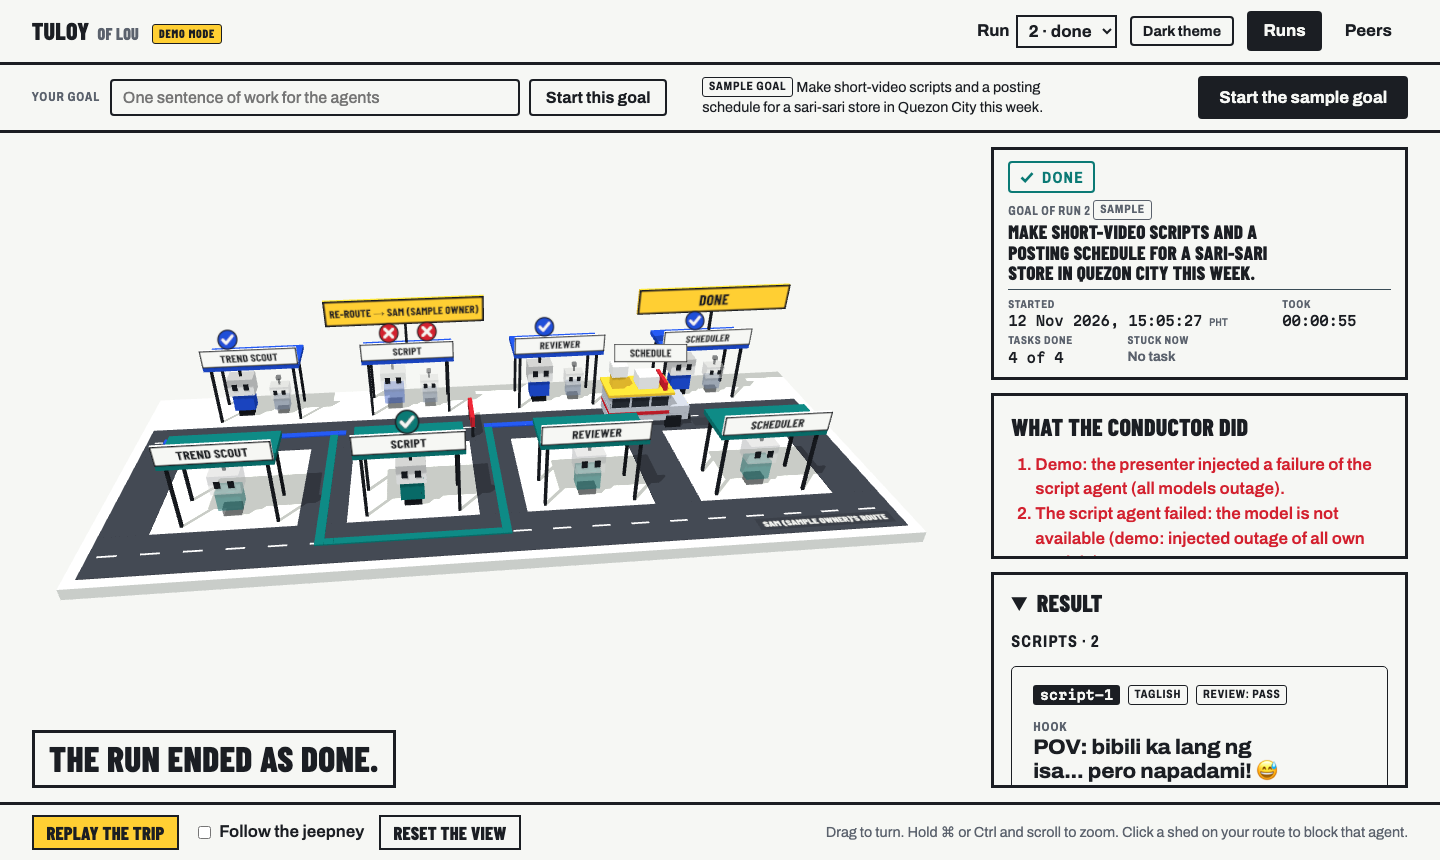
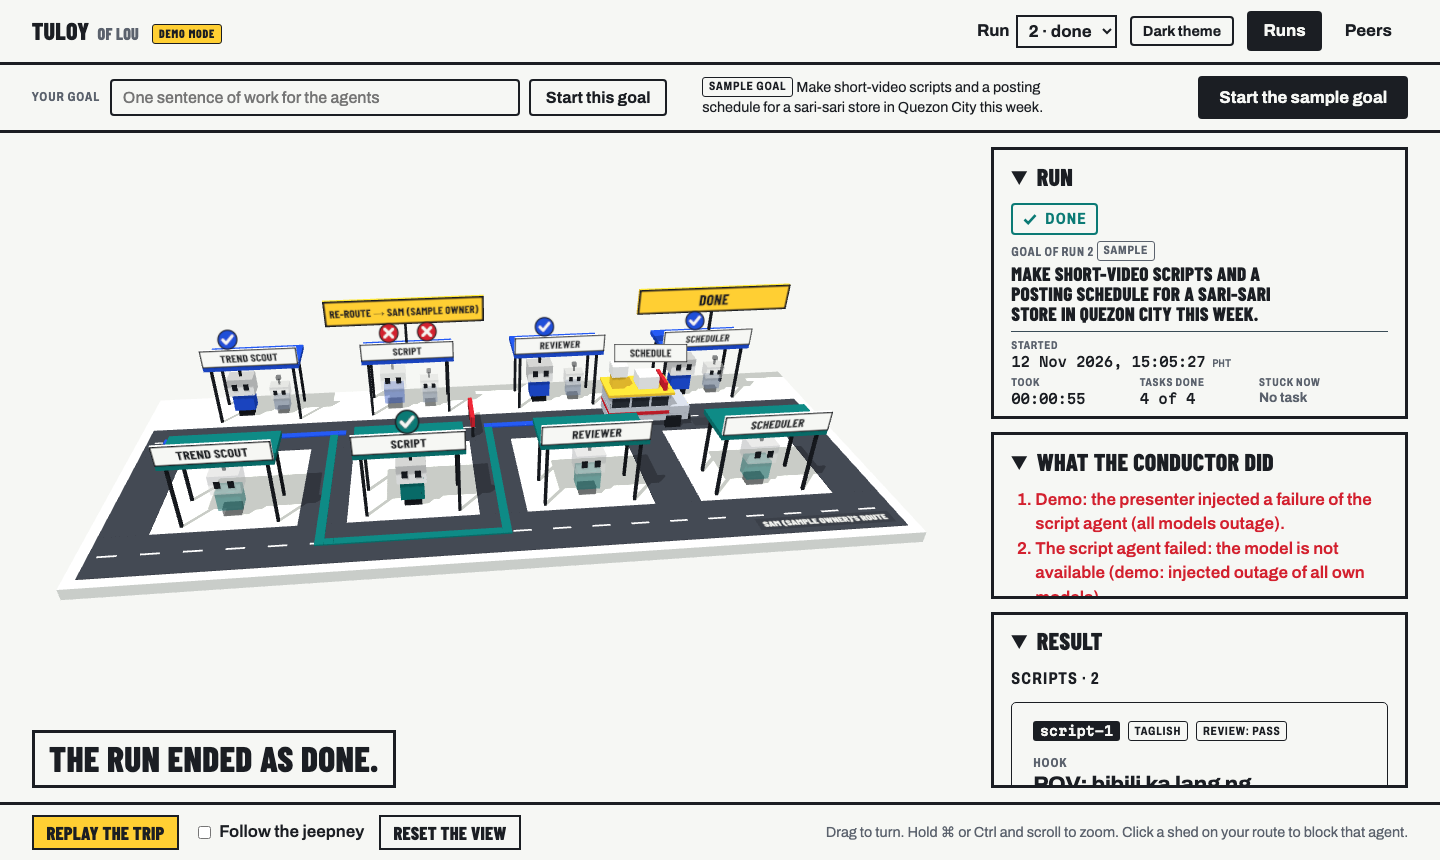
Each panel of the right column folds

Changed region(s): [[0.6875, 0.1814, 0.9688, 0.9372]]

diff --git a/src/page/style.css b/src/page/style.css
@@ -378,7 +378,7 @@ details > .data, details > .data-list { margin-top: 0.4rem; padding: 0.6rem 0.8r
   --st-panel: #f6f7f4; --st-ink: #1b1e23; --st-white: #f6f7f4; --st-route: #1f4fd8; --st-peer: #0b7a75; --st-backup: #8093b5;
   --st-block: #d3212f; --st-sign: #ffcf33; --st-on-sign: #1b1e23; --st-road: #3b4049; --st-roadline: #f6f7f4; --st-steel: #c3c9d2; --st-glass: #2a2f37; --st-ground: #e7eae4;
 }
-.mark, .slate h1, .street-say, .did h2, .result > h2, .details > summary, .result-fold > summary, .street-tools button, .shed-menu p {
+.mark, .slate h1, .street-say, .did h2, .result > h2, .details > summary, .fold > summary, .street-tools button, .shed-menu p {
   font-family: var(--sign-face);
   font-weight: 800;
   font-stretch: normal;
@@ -415,7 +415,6 @@ details > .data, details > .data-list { margin-top: 0.4rem; padding: 0.6rem 0.8r
 .shed-menu button:hover { background: var(--ink); color: var(--sheet); }
 body > .shed-menu, .shed-menu { position: absolute; }
 
-.did { background: var(--sheet); border: 3px solid var(--ink); padding: 0.9rem 1.1rem 1.1rem; }
 .did h2, .result > h2 { font-size: 1.5rem; color: var(--ink); margin-bottom: 0.5rem; }
 .did ol { list-style: decimal; padding-left: 1.5rem; line-height: 1.45; }
 .did li.recovery-trouble { color: var(--stop); font-weight: 600; }
@@ -465,7 +464,7 @@ body > .shed-menu, .shed-menu { position: absolute; }
 .caption .demo-note, .caption .demo-pending { margin: 0; padding: 0.4rem 0.7rem; background: var(--sheet); border: 2px solid var(--ink); border-left-width: 6px; }
 .caption #demo-clear { margin: 0; }
 .side { display: grid; gap: 0.8rem; align-content: start; }
-.side .slate { min-height: 0; padding: 0.7rem 0.9rem; }
+.side .slate { min-height: 0; padding: 0; border: 0; background: none; }
 .side .slate-top { flex-wrap: wrap-reverse; gap: 0.4rem 1rem; }
 .side .slate h1 { font-size: 1.2rem; }
 .side .slate-state .status { font-size: 1rem; }
@@ -476,9 +475,10 @@ body > .shed-menu, .shed-menu { position: absolute; }
 .side .slate-help { font-size: 1rem; padding-bottom: 0; }
 .side .slate .fields { gap: 0.2rem 1.4rem; }
 .side .slate .field dd { font-size: 0.85rem; }
-.result-fold { margin: 0; background: var(--sheet); border: 3px solid var(--ink); padding: 0.7rem 1.1rem; }
-.result-fold > summary { font-size: 1.5rem; color: var(--ink); width: auto; }
-.result-fold[open] > summary { margin-bottom: 0.6rem; }
+/* Each panel of the column folds: a click on its title closes it and gives the room to the street. */
+.fold { margin: 0; background: var(--sheet); border: 3px solid var(--ink); padding: 0.6rem 1.1rem; }
+.fold > summary { font-size: 1.5rem; color: var(--ink); width: auto; }
+.fold[open] > summary { margin-bottom: 0.5rem; }
 .result-fold .result > h2 { display: none; }
 .result-fold .result h3:first-of-type { margin-top: 0; }
 .result-fold .post { grid-template-columns: 1fr; }
@@ -500,10 +500,9 @@ body > .shed-menu, .shed-menu { position: absolute; }
   .caption { align-self: end; max-width: 38rem; }
   .side { display: flex; flex-direction: column; }
   .side > * { flex: 0 1 auto; overflow: auto; }
-  .side .slate { flex-shrink: 0; }
-  .side .did { min-height: 4.5rem; }
-  .side:has(.result-fold[open]) .did { max-height: 26%; }
-  .result-fold { flex-shrink: 0; }
+  .side > .fold { flex-shrink: 0; }
+  .side > .did[open] { flex-shrink: 1; min-height: 6.5rem; }
+  .side:has(.result-fold[open]) .did[open] { max-height: 26%; }
   .result-fold[open] { flex: 1 1 0; min-height: 6rem; }
   main { padding-top: 1.4rem; }
 }

diff --git a/src/page/index.html b/src/page/index.html
@@ -45,14 +45,17 @@
       <p id="street-say" class="street-say" role="status"></p>
     </div>
     <div class="side">
-      <section id="slate" class="slate" aria-live="polite">
-        <p class="slate-note">Reading the runs…</p>
-      </section>
-      <section class="did" aria-labelledby="did-title">
-        <h2 id="did-title">What the conductor did</h2>
+      <details class="fold" open>
+        <summary>Run</summary>
+        <section id="slate" class="slate" aria-live="polite">
+          <p class="slate-note">Reading the runs…</p>
+        </section>
+      </details>
+      <details class="fold did" open>
+        <summary>What the conductor did</summary>
         <ol id="did"></ol>
-      </section>
-      <details id="result-fold" class="result-fold">
+      </details>
+      <details id="result-fold" class="fold result-fold">
         <summary>Result</summary>
         <section id="result" class="result" aria-labelledby="result-title"></section>
       </details>

diff --git a/README.md b/README.md
@@ -9,7 +9,7 @@ Tuloy ("keep going") runs a team of AI agents toward a goal and recovers by itse
 
 The Runs page shows a run as a trip on a 3D street. Your route is the far road and a peer's route is the near road. Each agent is a robot at a waiting shed, and a jeepney carries the work from stop to stop. A blocked stop gets a road sign with the stuck reason. When the conductor re-routes a task to a peer, the jeepney goes to the peer's road.
 
-The street fills the window. The other parts lie on top of it: the run, the list "What the conductor did" and the result are in a column on the right, and the sentence at the bottom left says what happens now. The result is folded during a run and opens when the run ends. The details (tasks, event trail, past runs) are below the street: scroll down. In a narrow window the parts are below the street.
+The street fills the window. The other parts lie on top of it: the run, the list "What the conductor did" and the result are in a column on the right, and the sentence at the bottom left says what happens now. Each panel of the column folds: a click on its title closes it or opens it. The result is folded during a run and opens when the run ends. The details (tasks, event trail, past runs) are below the street: scroll down. In a narrow window the parts are below the street.
 
 ![The run ended as done after a re-route to a peer](docs/screenshots/3d-5-full-window.png)
 
